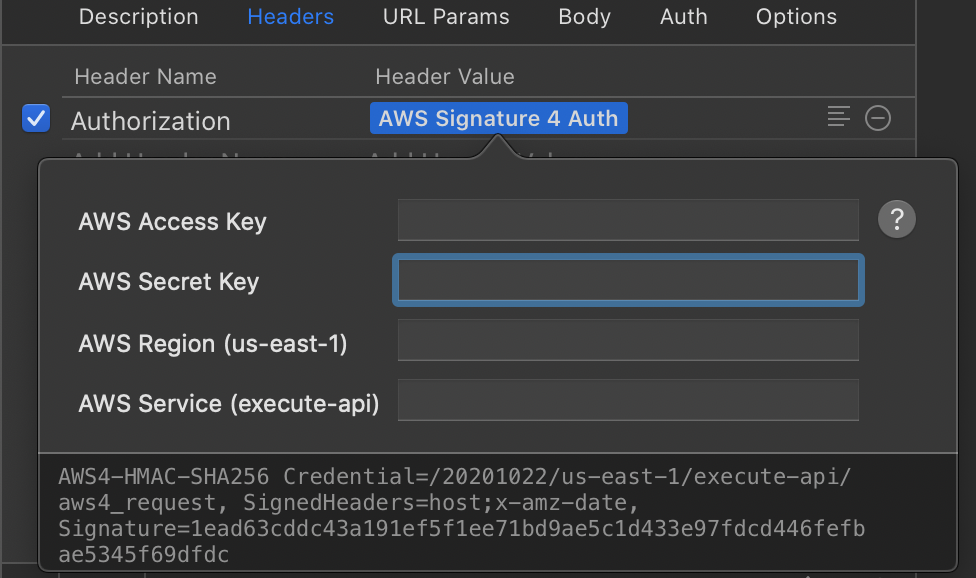
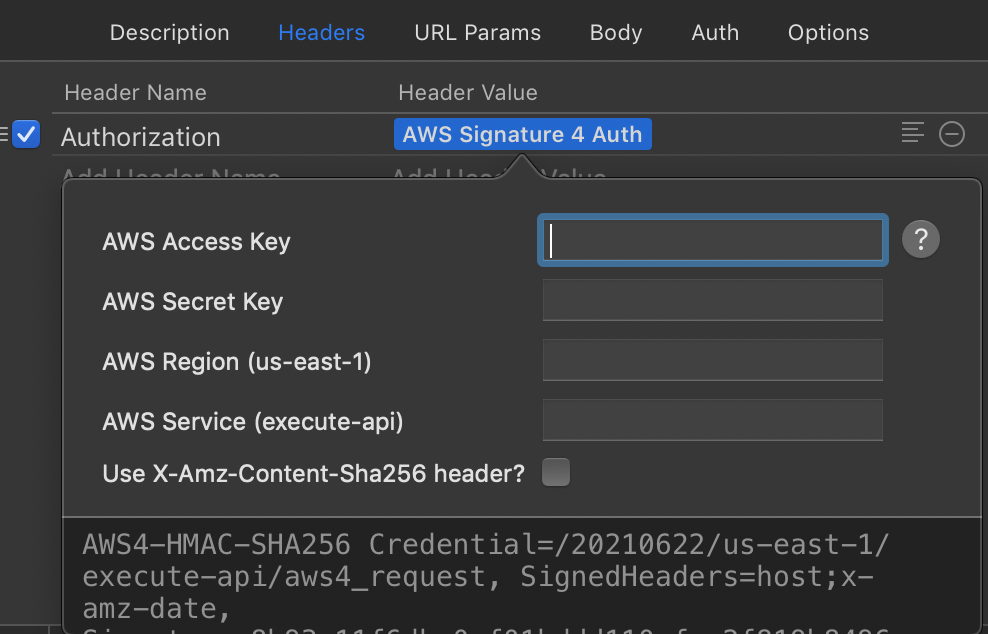
Allows an Option to Pull Hashed Body from X-Amz-Content-Sha256 Header
In effect, this essentially resolves #29.

diff --git a/AWSSignature4DynamicValue.js b/AWSSignature4DynamicValue.js
@@ -237,7 +237,9 @@ var AWSSignature4DynamicValue = function() {
             day = amzDay(now)
             daytime = day + 'T' + amzTime(now)
         }
-        var bodyHash = hash256(request.body || '')
+        var bodyHash = this.use_header_hash
+            ? request.getHeaderByName('x-amz-content-sha256', false)
+            : hash256(request.body || '')
 
         // Search for other signed headers to include. We will assume any headers that begin with X-Amz-<*> will be included
         var headers = {} // The actual headers to sign
@@ -319,6 +321,7 @@ AWSSignature4DynamicValue.inputs = [
       DynamicValueInput('secret', 'AWS Secret Key', 'SecureValue'),
       DynamicValueInput('region', 'AWS Region (us-east-1)', 'String'),
       DynamicValueInput('service', 'AWS Service (execute-api)', 'String'),
+      DynamicValueInput('use_header_hash', 'Use X-Amz-Content-Sha256 header?', 'Checkbox', { defaultValue: false }),
   ]
 
 registerDynamicValueClass(AWSSignature4DynamicValue)
